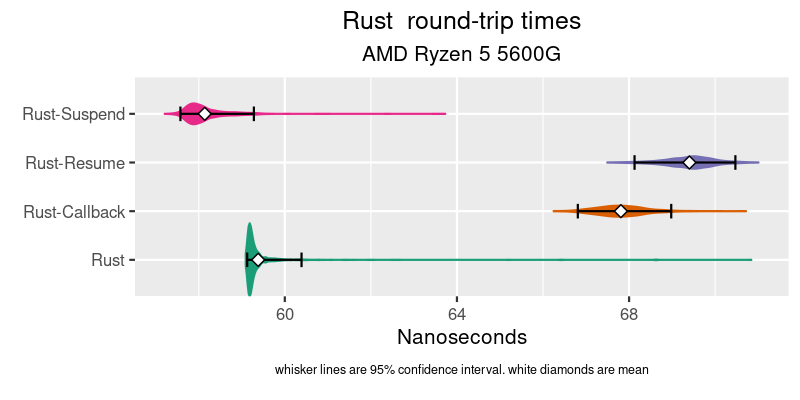
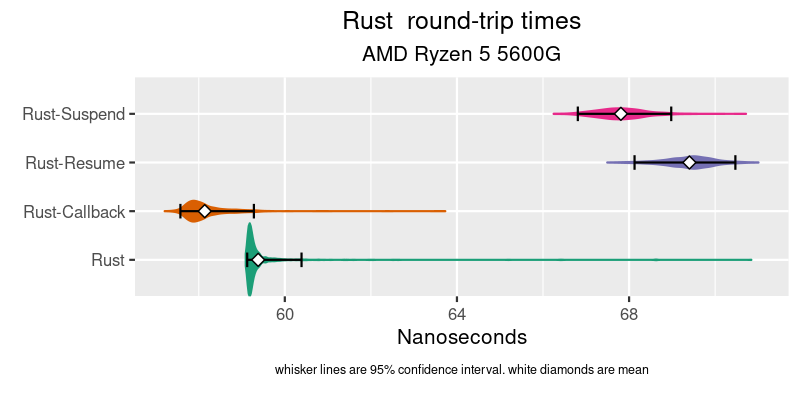
fix graph swap

diff --git a/benches/bench_atomic.rs b/benches/bench_atomic.rs
@@ -45,7 +45,7 @@ fn rust_suspend(c: &mut Criterion) {
     core_affinity::set_for_current(CoreId { id: CLIENT_CPU });
 
     let mut child = async_bench::bench_utils::launch_local(
-        "target/release/atomic_callback_server",
+        "target/release/atomic_async_suspend",
         vec![SERVER_CPU].as_ref(),
     );
 
@@ -62,7 +62,7 @@ fn rust_callback(c: &mut Criterion) {
     core_affinity::set_for_current(CoreId { id: CLIENT_CPU });
 
     let mut child = async_bench::bench_utils::launch_local(
-        "target/release/atomic_async_suspend",
+        "target/release/atomic_callback_server",
         vec![SERVER_CPU].as_ref(),
     );
 
@@ -276,6 +276,10 @@ fn kotlin_callback(c: &mut Criterion) {
 
 criterion_group!(
     benches,
+    rust_callback,
+    rust_callback,
+    rust_callback,
+    rust_callback,
     cpp_bench,
     cpp_resume,
     cpp_suspend,

diff --git a/src/bin/atomic_callback_server.rs b/src/bin/atomic_callback_server.rs
@@ -26,7 +26,7 @@ struct EventLoop<'a, T> {
 
 impl<'a, T> EventLoop<'a, T> {
 
-    fn set_callback(&mut self, cb:&'a Fn(&mut T, u64) ) {
+    fn set_callback(&mut self, cb:&'a impl Fn(&mut T, u64) ) {
         self.callback = Some(cb);
     }
 

diff --git a/README.md b/README.md
@@ -134,9 +134,8 @@ I could not get GCC to produce the same `asm` that zig & Rust output. Clang did,
 
 Rust's async/await implementations is the most complicated by far. The resume code is obtuse. You call a `waker` which then calls `poll` on the `future` that then resumes. Callbacks are awkward in Rust because of the borrow checker, so callbacks might not be the baseline to measure from. All this code was run on `release` version, with `native` target and `lto` enabled `rustc 1.55.0`. Writing this code felt like I'm not using async/await the way it was intended. I just shoved into a coroutine looking box. I am an intermediate Rust dev at best. Criticism welcome.
 ### takeaways
-* I can not explain why Suspend and Resume flip places on Intel vs AMD.
+* Why are callbacks & resume so different on Intel vs AMD?
 * Despite concern about resume complexity, it's snappy on Intel.
-* Callbacks seem slow. Might be my code.
 * I would use async/await for Rust because it's a better fit for the language.
 * There are other issues in Rust that might make it inappropriate for ULL code w/o a profusion of `unsafe`. This specific test does not point to any issues. Promising.
 
